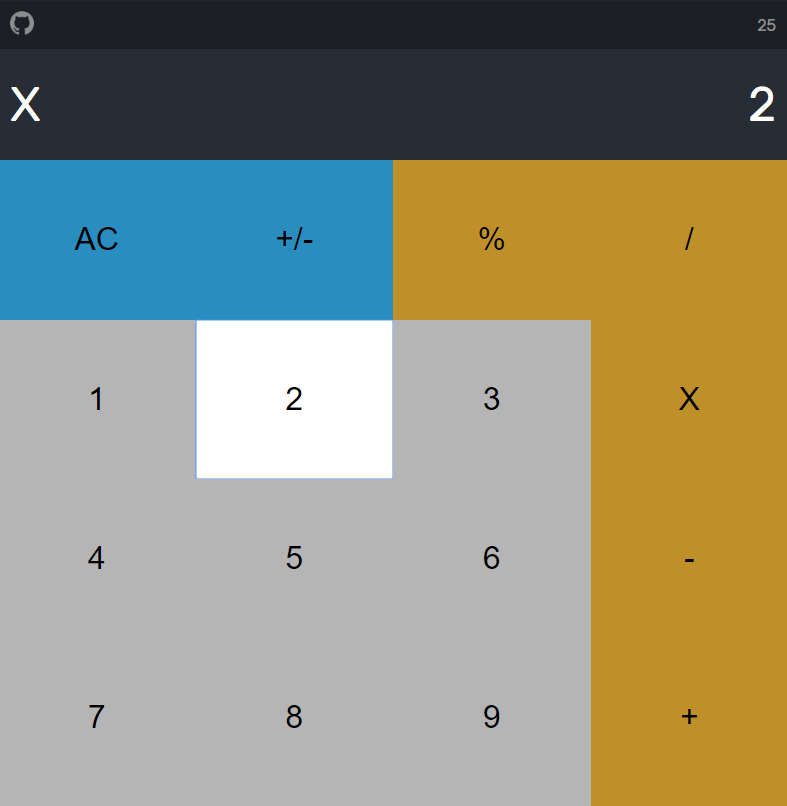
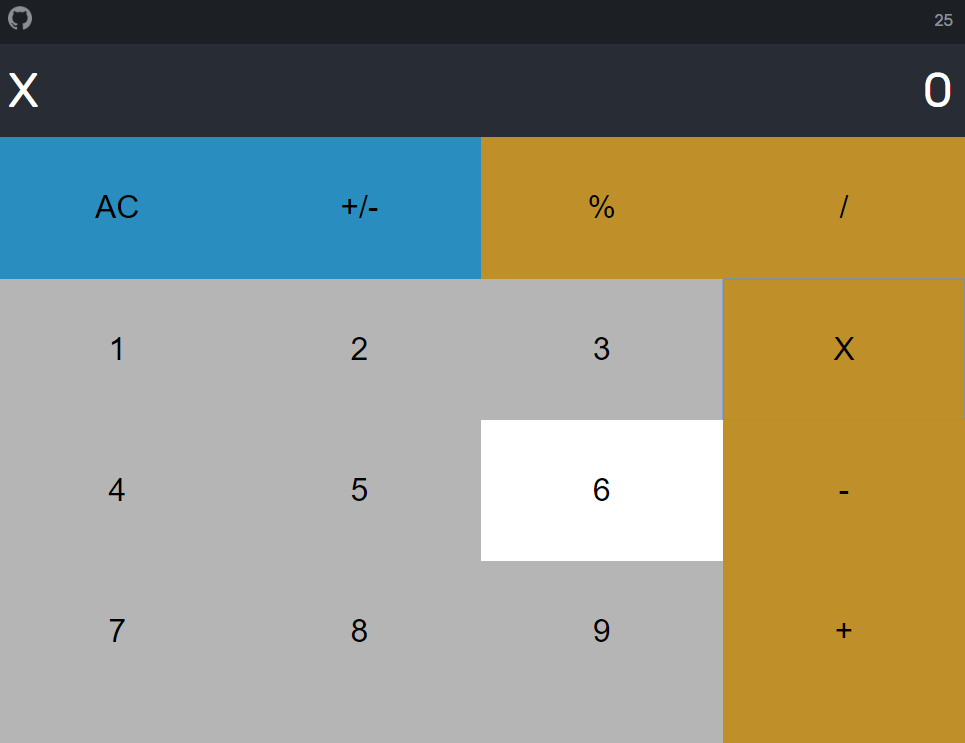
dimmer

diff --git a/src/components/Projects/Projects.js b/src/components/Projects/Projects.js
@@ -1,11 +1,15 @@
 import React from 'react'
 
+import calculator from '../../img/projects/before/calculator.png'
+
 export default function Projects() {
     return (
         <div className="projects-section">
             <div className="project">
-                <div id="calculator-project-img" className="project-img">
-                    
+                <div className="project-img">
+                    <img
+                        src={calculator}
+                    />
                 </div>
                 <div className="project-desc">
                 </div>

diff --git a/src/scss/projects/_projects.scss b/src/scss/projects/_projects.scss
@@ -20,14 +20,22 @@
 
 .project-img {
     flex: 50%;
-    height: 25vh;
+
+    overflow: hidden;
+
+    > img {
+        transition: all $img-zoom-duration ease;
+        
+        width: 100%;
+        height: auto;
+
+        &:hover {
+            transform: scale($img-zoom-scale);
+            filter: brightness(50%);
+        }
+    }
 }
 
 .project-desc {
     flex: 50%;
-}
-
-#calculator-project-img {
-    background: url('../img/projects/before/calculator.png');
-    background-size: cover;
 }

diff --git a/src/css/app.css b/src/css/app.css
@@ -99,13 +99,16 @@ a {
 
 .project-img {
   flex: 50%;
-  height: 25vh; }
+  overflow: hidden; }
+  .project-img > img {
+    transition: all 0.25s ease;
+    width: 100%;
+    height: auto; }
+    .project-img > img:hover {
+      transform: scale(1.1);
+      filter: brightness(50%); }
 
 .project-desc {
   flex: 50%; }
-
-#calculator-project-img {
-  background: url("../img/projects/before/calculator.png");
-  background-size: cover; }
 
 /*# sourceMappingURL=app.css.map */

diff --git a/src/scss/vars/_vars.scss b/src/scss/vars/_vars.scss
@@ -9,3 +9,6 @@ $navbar-color: rgba(0, 0, 0, 0.8);
 /* Projects */
 $hover-color: rgba(26, 26, 26, 0.5);
 $project-fade-duration: 0.15s;
+
+$img-zoom-scale: 1.1;
+$img-zoom-duration: 0.25s;
